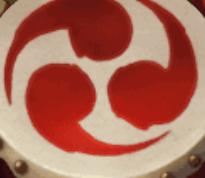
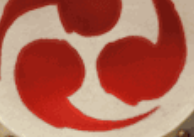
完善

diff --git a/auto_team.py b/auto_team.py
@@ -36,21 +36,25 @@ def judge_pic_state(mark_pic, image, pic_size_dict, tap_area_dict ,sleep_time, t
         y_offset = int(abs(tap_area_dict['y1'] - tap_area_dict['y2']) / 2)
         tap_x = (tap_area_dict['x1'] + tap_area_dict['x2']) / 2 + random.randint(-x_offset,x_offset)
         tap_y = (tap_area_dict['y1'] + tap_area_dict['y2']) / 2 + random.randint(-y_offset,y_offset)
-        tap_point(tap_x, tap_y)
+        if type == 'team_win_mark_drum':
+            tap_point(tap_x, tap_y)
+            time.sleep(0.5)
+            tap_x = (tap_area_dict['x1'] + tap_area_dict['x2']) / 2 + random.randint(-x_offset, x_offset)
+            tap_y = (tap_area_dict['y1'] + tap_area_dict['y2']) / 2 + random.randint(-y_offset, y_offset)
+            tap_point(tap_x, tap_y)
+        else:
+            tap_point(tap_x, tap_y)
         tap_time = time.strftime("%Y-%m-%d %H:%M:%S", time.localtime())
         log_str = tap_time + ' ' +type + ' ' + '(' + str(tap_x) + ',' + str(tap_y) + ')\n'
-        with open('./yys_log/' + constant.device_id + '_auto_team.txt' ,'a') as log_file:
-            print("***********************************")
-            print(log_str)
-            print("***********************************")
-            log_file.write(log_str)
-        a = random.randint(1, 8)
-        time.sleep(sleep_time + a / 10)
+        print("***********************************")
+        print(log_str.strip('\n'))
+        print("***********************************")
+
         return True
     else:
         return False
 
-def start():
+def start(leader):
 
     start_fighting = cv.imread('./yys_mark/start_fighting_' + constant.device_id + '.png')
     win_mark_box = cv.imread('./yys_mark/team_win_mark_box_' + constant.device_id + '.png')
@@ -60,21 +64,17 @@ def start():
     while True:
         image = save_screen_cap(constant.device_id + '_team', './yys_temp/')
         stop_times_threshold = stop_times_threshold + 1
-        if stop_times_threshold >= 50:
-            time.sleep(5)
 
-        if stop_times_threshold >= 100:
-
-            name = time.strftime("%Y-%m-%d-%H:%M:%S", time.localtime())
-            save_screen_cap(name, './yys_pic_log')
-            time.sleep(10)
+        if stop_times_threshold >= 150:
+            #超时的话，就关闭阴阳师
             stop_command = 'adb -s '+ constant.device_id +' shell am force-stop com.netease.onmyoji'
             os.system(stop_command)
             sys.exit(0)
 
         #判断是否存在开始战斗按钮
-        if judge_pic_state(start_fighting, image, constant.start_fighting, constant.start_fighting , 0, 0.01, 'start_fighting_'):
-            continue
+        if leader == True:
+            if judge_pic_state(start_fighting, image, constant.start_fighting, constant.start_fighting , 0, 0.01, 'start_fighting'):
+                continue
 
         #判断是否战斗胜利
         if judge_pic_state(win_mark_drum, image, constant.team_win_mark_drum, constant.win_mark_drum_tap, 0, 0.2, 'team_win_mark_drum'):
@@ -85,16 +85,13 @@ def start():
             stop_times_threshold = 0
             continue
 
-        #判断是否战斗失败
-        if judge_pic_state(team_failure, image, constant.team_failure, constant.single_failure_tap , 0, 2, 'team_failure'):
-            stop_times_threshold = 0
-            continue
 
 
 if __name__ == '__main__':
     parser = argparse.ArgumentParser(description='manual to this script')
     parser.add_argument('--phone', type=str, default=None)
+    parser.add_argument('--leader', type=bool, default=None)
     args = parser.parse_args()
     global constant
     constant = __import__('Constant_' + args.phone)
-    start()
+    start(args.leader)

diff --git a/auto_single_player.py b/auto_single_player.py
@@ -9,8 +9,6 @@ import random
 import sys
 from WeChatUtils import WechatUtils
 
-
-
 def save_screen_cap(pic_name, path):
     screencap = 'adb -s '+ constant.device_id +' shell /system/bin/screencap -p /sdcard/' + pic_name + '.png'
     save_picture = 'adb -s '+ constant.device_id +' pull /sdcard/' + pic_name + '.png ' + path
@@ -44,7 +42,7 @@ def judge_pic_state(mark_pic, image, pic_size_dict, tap_area_dict ,sleep_time, t
         log_str = tap_time + ' ' +type + ' ' + '(' + str(tap_x) + ',' + str(tap_y) + ')\n'
         with open('./yys_log/' + constant.device_id + '_auto_single_player.txt' ,'a') as log_file:
             print("***********************************")
-            print(log_str)
+            print(log_str.strip('\n'))
             print("***********************************")
             log_file.write(log_str)
         a = random.randint(1, 8)
@@ -74,9 +72,6 @@ def start(use_wechat):
         if stop_times_threshold >= 100:
             if use_wechat == True:
                 wechat.send_question('your single_player_auto.py will shut')
-            name = time.strftime("%Y-%m-%d-%H:%M:%S", time.localtime())
-            save_screen_cap(name, './yys_pic_log')
-            time.sleep(10)
             stop_command = 'adb -s '+ constant.device_id +' shell am force-stop com.netease.onmyoji'
             os.system(stop_command)
             sys.exit(0)

diff --git a/PicUtil.py b/PicUtil.py
@@ -3,7 +3,7 @@
 import os
 import time
 import cv2 as cv
-import Constant_MUMU as constant
+import Constant_MI5 as constant
 import numpy as np
 
 
@@ -30,9 +30,20 @@ def cut_picture(name,out_name,coordinate):
     cv.imwrite('./yys_mark/' + out_name + "_" + constant.device_id +'.png' ,image)
 
 if __name__ == '__main__':
-    save_screen_cap('MM_test')
-    #show_pic('yuhun_box_team_mi5.png')
-    #cut_picture('yuhun_box_team_mi8','team_win_mark_box',constant.team_win_mark_box)
+    #save_screen_cap('kekkai1')
+    #show_pic('yuhun_end_win.png')
+    #cut_picture('kekkai1','tupo_ticket',constant.tupo_ticket)
     #cut_picture('yuhun_box_team_mi8','win_mark_box',constant.win_mark_box)
-    # cut_picture('yuhun_drum_team_mi5','team_win_mark_drum',constant.team_win_mark_drum)
+    cut_picture('yuhun_end_win','win_mark_drum',constant.win_mark_drum)
     # cut_picture('yuhun_f_team_mi5','team_failure',constant.team_failure)
+
+
+
+
+
+
+
+
+
+
+

diff --git a/ocr_test.py b/ocr_test.py
@@ -1,0 +1,12 @@
+#coding:utf-8
+'''
+brew install tesseract
+pip install pytesseract
+'''
+import pytesseract
+from PIL import Image
+import cv2 as cv
+# open image
+image = Image.open('./yys_mark/' + 'tupo_ticket_61e08bf1.png')
+code = pytesseract.image_to_string(image)
+print(code)

diff --git a/Constant_MI5.py b/Constant_MI5.py
@@ -5,10 +5,10 @@ device_id = 'c84e662d'
 
 #胜利之后的大鼓的位置坐标
 win_mark_drum = {
-    'y1':881,
-    'y2':943,
-    'x1':783,
-    'x2':1103
+    'y1':149,
+    'y2':286,
+    'x1':632,
+    'x2':826
 }
 #胜利之后的宝箱的下半部分坐标
 win_mark_box={

diff --git a/Constant_MI8.py b/Constant_MI8.py
@@ -95,3 +95,11 @@ team_win_mark_box={
     'x1':894,
     'x2':1212
 }
+#####################################################
+#突破
+tupo_ticket={
+    'y1':916,
+    'y2':944,
+    'x1':830,
+    'x2':869
+}
